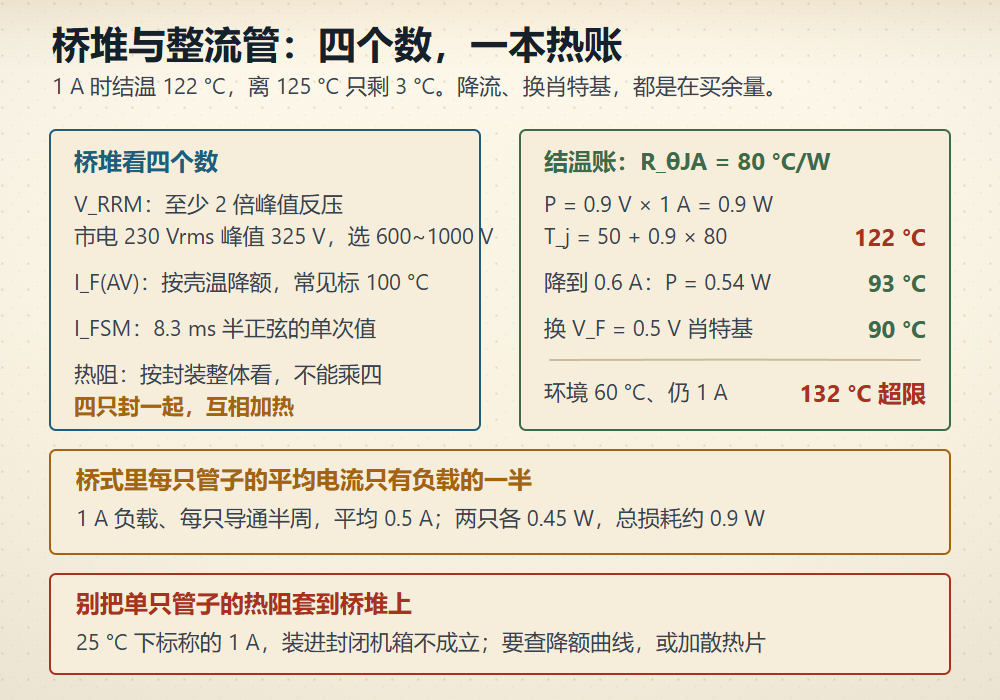
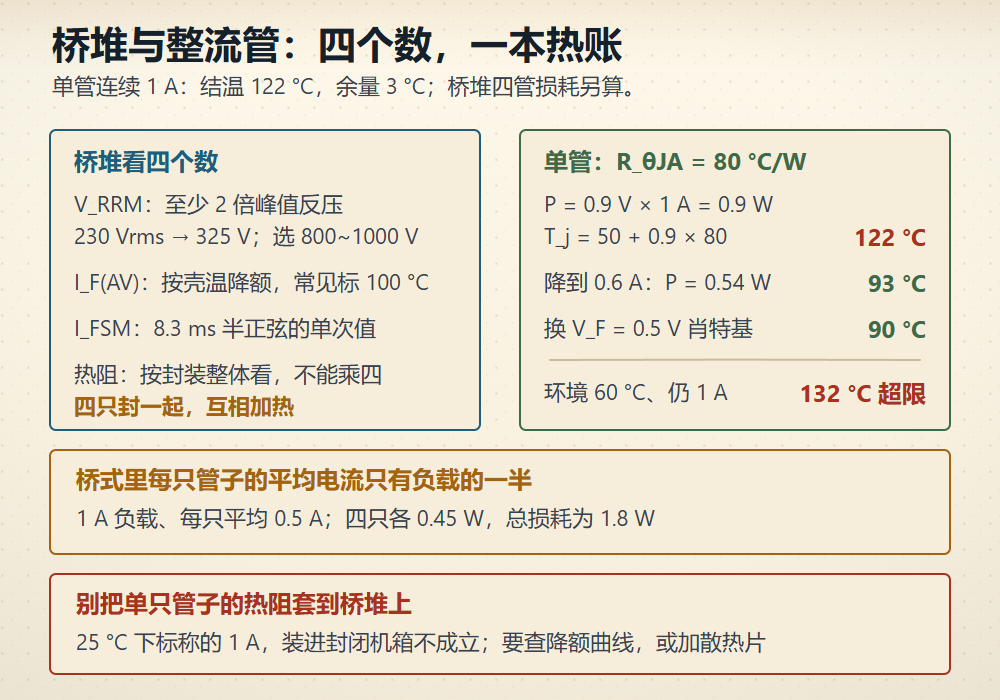
fix(ch2): recalculate bridge losses and ESD protection margins

diff --git a/scripts/visuals/scenes/handdrawn_wave16.py b/scripts/visuals/scenes/handdrawn_wave16.py
@@ -50,19 +50,19 @@ def diffpair_four_beats():
 
 def bridge_junction_ledger():
     parts = [header('桥堆与整流管：四个数，一本热账',
-                    '1 A 时结温 122 °C，离 125 °C 只剩 3 °C。降流、换肖特基，都是在买余量。')]
+                    '单管连续 1 A：结温 122 °C，余量 3 °C；桥堆四管损耗另算。')]
 
     parts.append(box(50, 130, 430, 300, fill=PAPER, stroke=BLUE))
     parts.append(text(74, 170, '桥堆看四个数', 24, colour=BLUE, weight='700'))
     parts.append(text(74, 212, 'V_RRM：至少 2 倍峰值反压', 22, colour=INK2))
-    parts.append(text(74, 244, '市电 230 Vrms 峰值 325 V，选 600~1000 V', 22, colour=INK2))
+    parts.append(text(74, 244, '230 Vrms → 325 V；选 800~1000 V', 22, colour=INK2))
     parts.append(text(74, 290, 'I_F(AV)：按壳温降额，常见标 100 °C', 22, colour=INK2))
     parts.append(text(74, 336, 'I_FSM：8.3 ms 半正弦的单次值', 22, colour=INK2))
     parts.append(text(74, 382, '热阻：按封装整体看，不能乘四', 22, colour=INK2))
     parts.append(text(74, 414, '四只封一起，互相加热', 22, colour=AMBER, weight='700'))
 
     parts.append(box(520, 130, 430, 300, fill=PAPER, stroke=GREEN))
-    parts.append(text(544, 170, '结温账：R_θJA = 80 °C/W', 24, colour=GREEN, weight='700'))
+    parts.append(text(544, 170, '单管：R_θJA = 80 °C/W', 24, colour=GREEN, weight='700'))
     parts.append(text(544, 212, 'P = 0.9 V × 1 A = 0.9 W', 22, colour=INK2))
     parts.append(text(544, 244, 'T_j = 50 + 0.9 × 80', 22, colour=INK2))
     parts.append(text(926, 246, '122 °C', 24, colour=RED, anchor='end', weight='700'))
@@ -76,7 +76,7 @@ def bridge_junction_ledger():
 
     parts.append(box(50, 450, 900, 104, fill=PAPER, stroke=AMBER))
     parts.append(text(76, 488, '桥式里每只管子的平均电流只有负载的一半', 24, colour=AMBER, weight='700'))
-    parts.append(text(76, 526, '1 A 负载、每只导通半周，平均 0.5 A；两只各 0.45 W，总损耗约 0.9 W',
+    parts.append(text(76, 526, '1 A 负载、每只平均 0.5 A；四只各 0.45 W，总损耗为 1.8 W',
                       22, colour=INK2))
 
     parts.append(box(50, 574, 900, 100, fill=PAPER, stroke=RED))
@@ -205,13 +205,13 @@ SCENES = {
         'draw': bridge_junction_ledger, 'title': '桥堆与整流管的四个数与结温账',
         'anchor': '2.12', 'chapter': 2, 'source': 'docs/p1-03-ch2.md',
         'alt': '手绘桥堆两栏加热账。左蓝框桥堆看四个数：反向耐压至少 2 倍峰值反压，'
-               '市电 230 伏有效值峰值 325 伏所以选 600 到 1000 伏；平均电流要按壳温降额，常见标 100 摄氏度；'
+               '市电 230 伏有效值峰值 325 伏，所以按两倍余量选 800 到 1000 伏；平均电流要按壳温降额，常见标 100 摄氏度；'
                '浪涌电流是 8.3 毫秒半正弦的单次值；热阻要按封装整体看，不能拿单只乘四，四只封在一起互相加热。'
-               '右绿框结温账，热阻按 80 摄氏度每瓦：功耗 0.9 伏乘 1 安得 0.9 瓦，结温 50 加 0.9 乘 80 得 122 摄氏度；'
+               '右绿框单管连续导通的结温账，热阻按 80 摄氏度每瓦：功耗 0.9 伏乘 1 安得 0.9 瓦，结温 50 加 0.9 乘 80 得 122 摄氏度；'
                '降到 0.6 安功耗 0.54 瓦，结温 93 摄氏度；换 0.5 伏肖特基，90 摄氏度；'
                '环境升到 60 摄氏度仍 1 安，132 摄氏度已经超限。'
                '下方琥珀框写桥式里每只管子的平均电流只有负载的一半：1 安负载每只导通半周、平均 0.5 安，'
-               '两只各 0.45 瓦、总损耗约 0.9 瓦。底部红框写别把单只管子的热阻套到桥堆上，'
+               '四只各 0.45 瓦、总损耗为 1.8 瓦。底部红框写别把单只管子的热阻套到桥堆上，'
                '25 摄氏度下标称的 1 安装进封闭机箱不成立。',
     },
     'ch04-thermal-chain-ledger': {

diff --git a/scripts/visuals/scenes/handdrawn_wave10.py b/scripts/visuals/scenes/handdrawn_wave10.py
@@ -7,8 +7,8 @@ from scripts.visuals.scenes.handdrawn_wave2 import (
 
 
 def esd_chain():
-    parts = [header('IEC 8kV 进来，24A 从 TVS 走',
-                    '330Ω/150pF 源，TVS 钳到 9.2V：峰值 24.2A、223W；100Ω 后残压仍灌 35mA。')]
+    parts = [header('8kV 简化源：先分流，再限流',
+                    '330Ω/150pF 近似：24.2A、223W；不代替 IEC 校准波形，100Ω 后仍灌 35mA。')]
     parts.append(text(52, 138, '8kV → TVS 9.2V → 100Ω → 芯片 5.7V', 22, colour=INK2))
     parts.append(box(50, 170, 430, 230, fill=PAPER))
     parts.append(text(74, 210, 'TVS 这一跳', 24, colour=RED, weight='700'))
@@ -21,9 +21,9 @@ def esd_chain():
     parts.append(text(544, 250, 'Iinj = (9.2 − 5.7) / 100', 22))
     parts.append(text(544, 306, '= 35mA', 40, colour=AMBER, weight='700'))
     parts.append(text(544, 346, '要 10mA：R ≥ (9.2 − 5.7) / 0.01', 22, colour=INK2))
-    parts.append(text(544, 380, '= 350Ω → 取 330Ω', 24, colour=GREEN, weight='700'))
+    parts.append(text(544, 380, '≥350Ω → 取 470Ω', 24, colour=GREEN, weight='700'))
     parts.append(box(50, 430, 900, 120, fill=PAPER))
-    parts.append(text(76, 468, '先 TVS、后限流：100Ω 挪到前面，要扛 24A 与 57.6kW。', 22,
+    parts.append(text(76, 468, '100Ω 前移：总源阻 430Ω，约 18.6A、34.6kW（简化模型）。', 22,
                       colour=RED, weight='700'))
     parts.append(text(76, 504, '地回路 1nH × 24A/ns ≈ 24V，钳位形同虚设。', 22,
                       colour=INK2))
@@ -323,7 +323,7 @@ SCENES = {
     'ch02-esd-chain': {
         'draw': esd_chain, 'title': 'IEC 8kV 的 24A 分账', 'anchor': '2.11.3',
         'chapter': 2, 'source': 'docs/p1-03-ch2.md',
-        'alt': '手绘 IEC 8 千伏 ESD 分账：330 欧、150 皮法源，TVS 钳到 9.2 伏，峰值电流 24.2 安、223 瓦；经 100 欧后残压仍向芯片灌 35 毫安。右侧写要压到 10 毫安需电阻至少 350 欧，取 330 欧。底部写先 TVS 后限流，100 欧挪到前面要扛 24 安与 57.6 千瓦；地回路 1 纳亨乘 24 安每纳秒约 24 伏，钳位形同虚设。',
+        'alt': '8 千伏简化 RC 源：330 欧、150 皮法，不代替 IEC 校准波形；TVS 钳到 9.2 伏，估算 24.2 安、223 瓦。100 欧后向芯片注入 35 毫安；10 毫安目标需至少 350 欧，选 470 欧。100 欧前移时总源阻 430 欧，约 18.6 安、34.6 千瓦。地回路 1 纳亨乘 24 安每纳秒产生 24 伏压降。',
     },
     'ch02-zener-budget': {
         'draw': zener_budget, 'title': '稳压管的限流电阻与最坏功耗', 'anchor': '2.9',

diff --git a/scripts/test_visual_calculations.py b/scripts/test_visual_calculations.py
@@ -1,0 +1,50 @@
+"""Recalculate published examples independently of their drawing labels."""
+import math
+import re
+import sys
+import unittest
+from pathlib import Path
+
+ROOT = Path(__file__).resolve().parents[1]
+sys.path.insert(0, str(ROOT))
+from scripts.visuals.scenes.handdrawn_wave10 import esd_chain
+from scripts.visuals.scenes.handdrawn_wave16 import bridge_junction_ledger, q_selectivity_map
+
+
+def labels(parts):
+    return ' '.join(re.sub('<[^>]+>', '', part) for part in parts)
+
+
+class VisualCalculationsTests(unittest.TestCase):
+    def test_q_is_carrier_frequency_over_half_power_bandwidth(self):
+        text = labels(q_selectivity_map())
+        results = [float(n) for n in re.findall(r'→ Q [=≈] (\d+)', text)]
+        self.assertEqual(2, len(results))
+        for actual, carrier, bandwidth in zip(results, [1e6, 100e6], [5e3, 150e3]):
+            self.assertAlmostEqual(carrier / bandwidth, actual, delta=0.5)
+
+    def test_bridge_total_counts_all_four_diodes(self):
+        text = labels(bridge_junction_ledger())
+        current = float(re.search(r'每只平均 ([\d.]+) A', text)[1])
+        each = float(re.search(r'四只各 ([\d.]+) W', text)[1])
+        total = float(re.search(r'总损耗为 ([\d.]+) W', text)[1])
+        self.assertAlmostEqual(0.9 * current, each)
+        self.assertAlmostEqual(4 * each, total)
+        self.assertAlmostEqual(2 * 0.9 * 1.0, total)
+
+    def test_esd_selected_resistor_meets_injection_limit(self):
+        text = labels(esd_chain())
+        chosen = float(re.search(r'取 (\d+)Ω', text)[1])
+        self.assertLessEqual((9.2 - 5.7) / chosen, 0.01)
+        self.assertGreater((9.2 - 5.7) / 330, 0.01)
+
+    def test_moving_series_resistor_changes_source_current(self):
+        text = labels(esd_chain())
+        current, power = map(float, re.search(r'约 ([\d.]+)A、([\d.]+)kW', text).groups())
+        actual = (8000 - 9.2) / (330 + 100)
+        self.assertAlmostEqual(actual, current, delta=0.05)
+        self.assertAlmostEqual(actual ** 2 * 100 / 1000, power, delta=0.1)
+
+
+if __name__ == '__main__':
+    unittest.main()

diff --git a/docs/superpowers/visual/reviews/ch02-calculation-correction.md b/docs/superpowers/visual/reviews/ch02-calculation-correction.md
@@ -1,0 +1,10 @@
+# 二极管算例复核
+
+日期：2026-11-07。方式：代理独立计算、源场景检查与本地 PNG 目视；不是用户人工签字。
+
+- `ch02-esd-chain`：350 Ω 是下限，选 470 Ω 后注入电流为 7.45 mA。把 100 Ω 移到 TVS 前，简化源总电阻变成 430 Ω，因此电流约 18.6 A、电阻瞬时功率约 34.6 kW。明确 330 Ω / 150 pF 的 RC 估算不能替代 IEC 校准波形。
+- `ch02-bridge-junction-ledger`：桥堆四管每只平均 0.5 A、损耗 0.45 W，合计 1.8 W；单只管连续导通的 122 °C 算例另列，不能直接套用到桥堆。325 V 的两倍是 650 V，本例按该余量选 800–1000 V。缩短左栏标签，修复文字跨越栏框。
+
+两图重新生成 SVG、印刷 SVG、WebP、彩色和灰度 PNG。彩色预览中的公式、单位和栏边界逐项核对；几何审计均通过，最小印刷字号为 8.606 pt。计算回归通过独立公式校核 Q、桥堆四管求和、限流下限和源阻变化。版面仍采用算账对照图，不把这些图计为新动画。
+
+两图五维评分均为教学必要性 4、事实精度 5、构图层级 4、风格一致性 5、印刷可读性 4，总分 22/25。验收只覆盖本次修正版，哈希登记在 manifest；整章密度和全书印刷验收继续单独执行。
